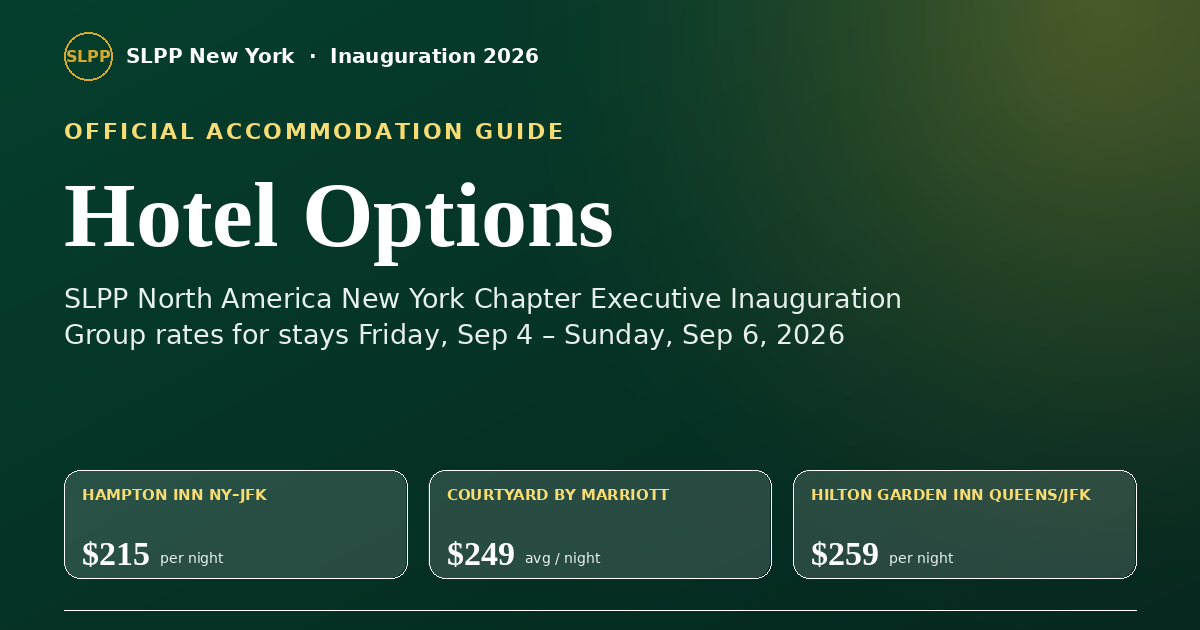
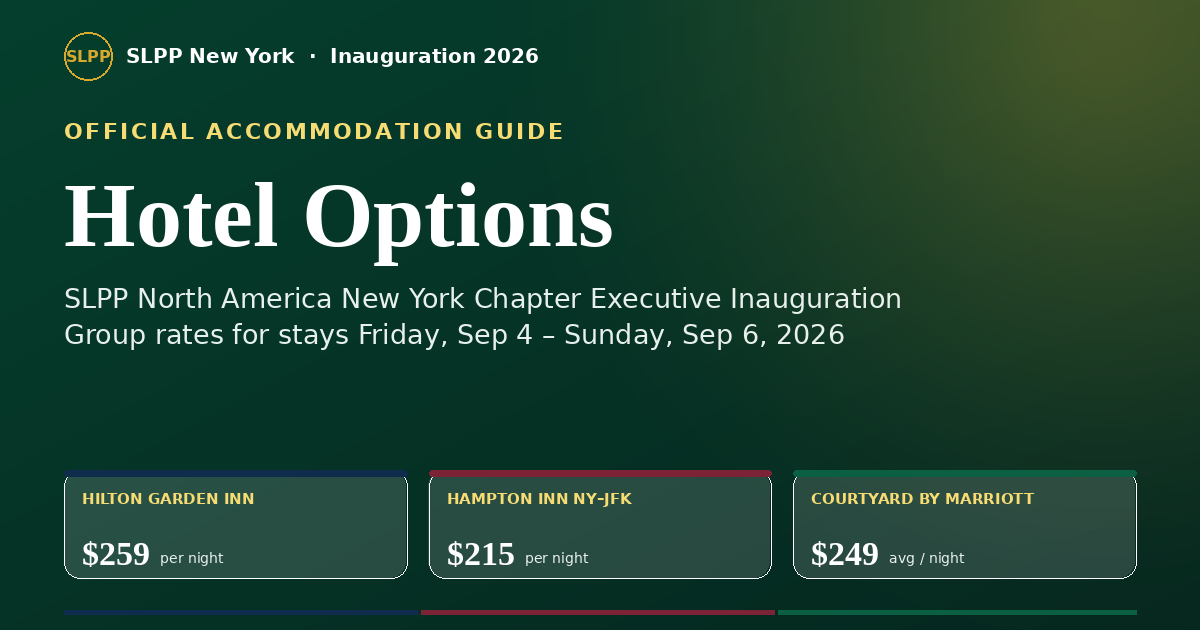
Add files via upload

diff --git a/hotels.html b/hotels.html
@@ -125,6 +125,7 @@
     table.compare .hname{display:flex;align-items:center;gap:9px;font-family:'Playfair Display';font-size:1.05rem;font-weight:700}
     table.compare .swatch{width:11px;height:11px;border-radius:3px;flex-shrink:0}
     table.compare td.price{font-family:'Playfair Display';font-weight:700;font-size:1.1rem}
+    table.compare .cell-label{display:none}
 
     /* ---------- Hotel cards ---------- */
     .section-lede{max-width:640px;margin:0 0 34px}
@@ -207,10 +208,20 @@
       .hero-fact{border-right:none;padding-right:0}
       .hotel-head,.details-grid,.room-gallery{grid-template-columns:1fr}
       .quick-nav-inner{grid-template-columns:1fr}
-      table.compare{font-size:.85rem}
-      table.compare th,table.compare td{padding:12px}
       .hotel-summary,.details{padding:28px}
       .hotel-head img{max-height:300px}
+    }
+    @media (max-width:760px){
+      table.compare, table.compare tbody{display:block;width:100%}
+      table.compare thead{display:none}
+      table.compare tr{display:block;padding:16px 0;border-top:1px solid var(--line)}
+      table.compare tr:first-child{border-top:none}
+      table.compare td{display:block;border:none;padding:0}
+      table.compare td.rowlabel{font-size:.72rem;font-weight:900;text-transform:uppercase;letter-spacing:.09em;color:var(--muted);margin-bottom:10px;width:auto}
+      table.compare td:not(.rowlabel){display:flex;align-items:center;justify-content:space-between;gap:12px;padding:10px 0;border-top:1px dashed var(--line)}
+      table.compare .cell-label{display:flex;align-items:center;gap:7px;font-weight:800;font-size:.86rem;flex-shrink:0}
+      table.compare .cell-value{text-align:right;font-weight:700;font-size:.9rem}
+      table.compare td.price .cell-value{font-family:'Playfair Display';font-size:1.15rem;font-weight:700}
     }
     @media (max-width:520px){
       .brand-text span{display:none}
@@ -218,8 +229,6 @@
       .hero-inner,main,.quick-nav{padding-left:16px;padding-right:16px}
       .rate{font-size:2.1rem}
       .btn{width:100%}
-      .compare-wrap{overflow-x:auto}
-      table.compare{min-width:640px}
     }
   </style>
 </head>
@@ -268,7 +277,6 @@
         <div class="kicker">Quick Comparison</div>
         <h2 class="serif">All three, side by side</h2>
       </div>
-      <div style="overflow-x:auto">
       <table class="compare">
         <thead>
           <tr>
@@ -279,14 +287,38 @@
           </tr>
         </thead>
         <tbody>
-          <tr><td class="rowlabel">Rate / Night</td><td class="price">$259</td><td class="price">$215</td><td class="price">$249</td></tr>
-          <tr><td class="rowlabel">Book By</td><td>Aug 5, 2026</td><td>Aug 5, 2026</td><td>Aug 15, 2026</td></tr>
-          <tr><td class="rowlabel">Cancellation</td><td>14 days before arrival</td><td>48 hours before arrival</td><td>48 hours before arrival</td></tr>
-          <tr><td class="rowlabel">Parking</td><td>Self-park (ask hotel for rate)</td><td>Valet only, $50 + tax/night</td><td>$50 + tax/night</td></tr>
-          <tr><td class="rowlabel">Breakfast</td><td>Not included (on-site restaurant)</td><td>Included</td><td>Not included (à la carte, 6–10:30 AM)</td></tr>
+          <tr>
+            <td class="rowlabel">Rate / Night</td>
+            <td class="price"><span class="cell-label"><span class="swatch" style="background:var(--hq-navy)"></span>Hilton Garden Inn</span><span class="cell-value">$259</span></td>
+            <td class="price"><span class="cell-label"><span class="swatch" style="background:var(--hp-maroon)"></span>Hampton Inn</span><span class="cell-value">$215</span></td>
+            <td class="price"><span class="cell-label"><span class="swatch" style="background:var(--cy-emerald)"></span>Courtyard by Marriott</span><span class="cell-value">$249</span></td>
+          </tr>
+          <tr>
+            <td class="rowlabel">Book By</td>
+            <td><span class="cell-label"><span class="swatch" style="background:var(--hq-navy)"></span>Hilton Garden Inn</span><span class="cell-value">Aug 5, 2026</span></td>
+            <td><span class="cell-label"><span class="swatch" style="background:var(--hp-maroon)"></span>Hampton Inn</span><span class="cell-value">Aug 5, 2026</span></td>
+            <td><span class="cell-label"><span class="swatch" style="background:var(--cy-emerald)"></span>Courtyard by Marriott</span><span class="cell-value">Aug 15, 2026</span></td>
+          </tr>
+          <tr>
+            <td class="rowlabel">Cancellation</td>
+            <td><span class="cell-label"><span class="swatch" style="background:var(--hq-navy)"></span>Hilton Garden Inn</span><span class="cell-value">14 days before arrival</span></td>
+            <td><span class="cell-label"><span class="swatch" style="background:var(--hp-maroon)"></span>Hampton Inn</span><span class="cell-value">48 hours before arrival</span></td>
+            <td><span class="cell-label"><span class="swatch" style="background:var(--cy-emerald)"></span>Courtyard by Marriott</span><span class="cell-value">48 hours before arrival</span></td>
+          </tr>
+          <tr>
+            <td class="rowlabel">Parking</td>
+            <td><span class="cell-label"><span class="swatch" style="background:var(--hq-navy)"></span>Hilton Garden Inn</span><span class="cell-value">Self-park (ask hotel for rate)</span></td>
+            <td><span class="cell-label"><span class="swatch" style="background:var(--hp-maroon)"></span>Hampton Inn</span><span class="cell-value">Valet only, $50 + tax/night</span></td>
+            <td><span class="cell-label"><span class="swatch" style="background:var(--cy-emerald)"></span>Courtyard by Marriott</span><span class="cell-value">$50 + tax/night</span></td>
+          </tr>
+          <tr>
+            <td class="rowlabel">Breakfast</td>
+            <td><span class="cell-label"><span class="swatch" style="background:var(--hq-navy)"></span>Hilton Garden Inn</span><span class="cell-value">Not included (on-site restaurant)</span></td>
+            <td><span class="cell-label"><span class="swatch" style="background:var(--hp-maroon)"></span>Hampton Inn</span><span class="cell-value">Included</span></td>
+            <td><span class="cell-label"><span class="swatch" style="background:var(--cy-emerald)"></span>Courtyard by Marriott</span><span class="cell-value">Not included (à la carte, 6–10:30 AM)</span></td>
+          </tr>
         </tbody>
       </table>
-      </div>
     </div>
 
     <article class="hotel" id="hilton-garden">